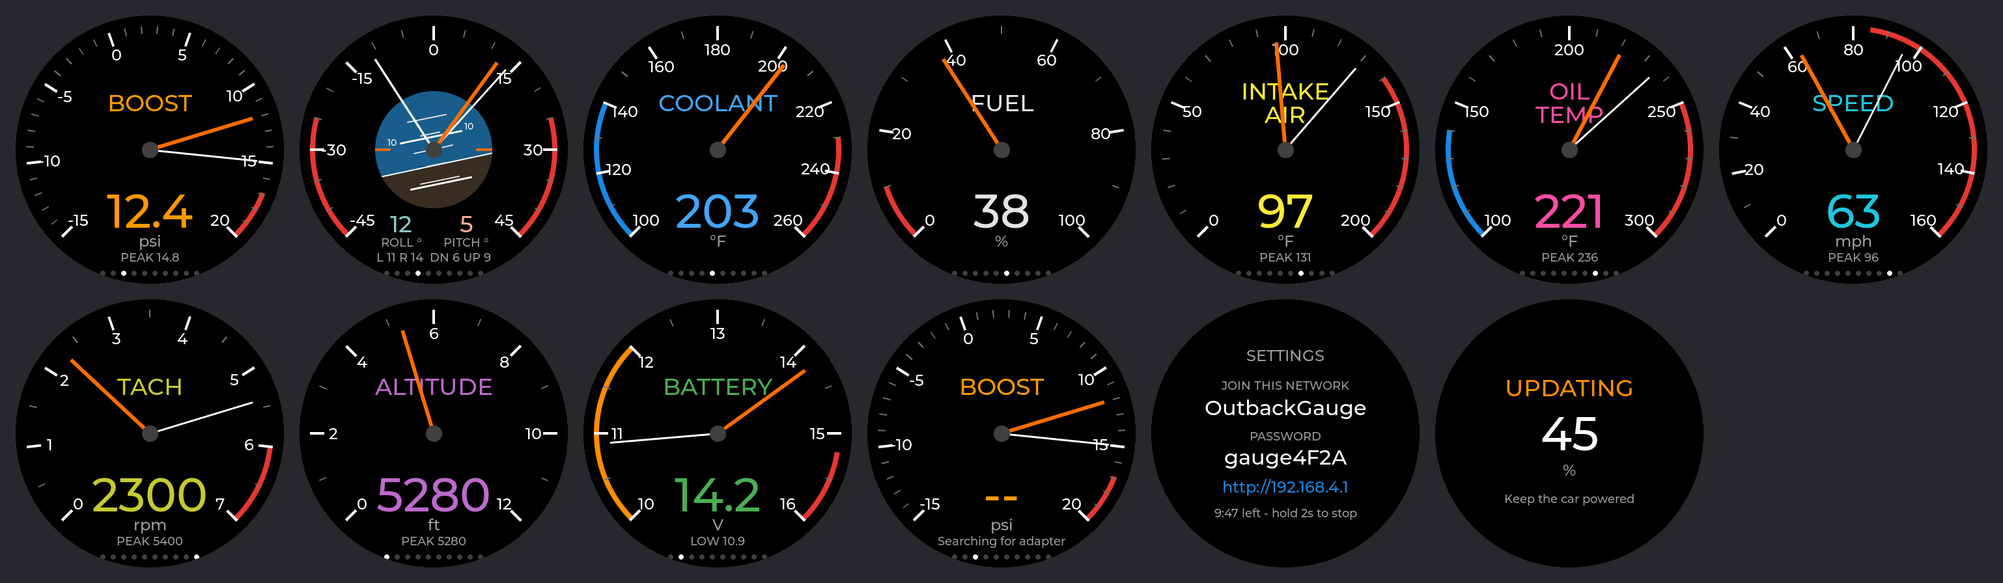
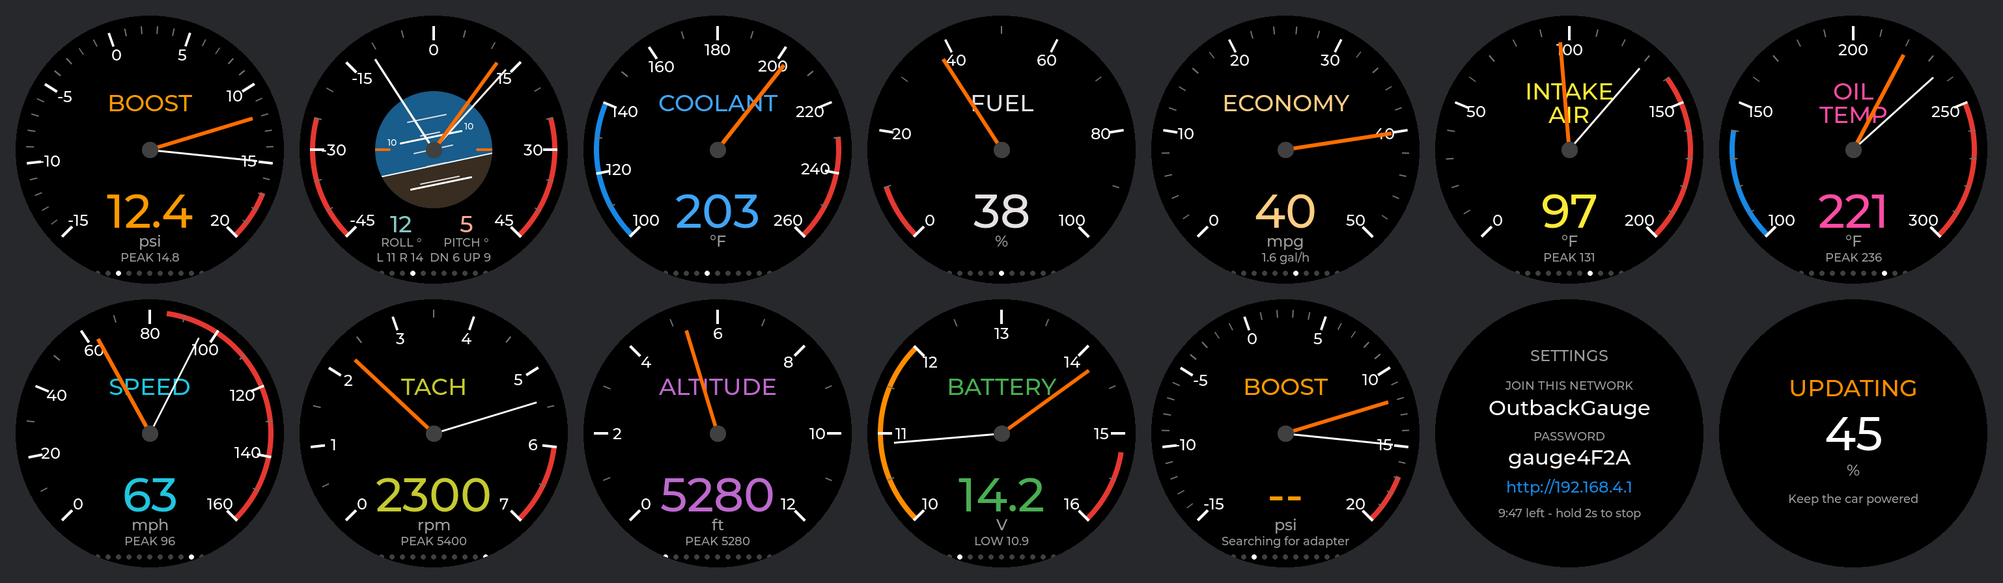
Add a fuel economy gauge (mpg from fuel rate or air flow, and speed)

diff --git a/docs/settings-page.html b/docs/settings-page.html
@@ -1,1 +1,1 @@
-<!doctype html><html><head><meta charset=utf-8><meta name=viewport content='width=device-width,initial-scale=1'><title>Outback Gauge</title><style>*{box-sizing:border-box}body{margin:0;padding:18px;background:#111;color:#eee;font:16px/1.4 -apple-system,system-ui,Roboto,sans-serif}main{max-width:30rem;margin:0 auto}h1{font-size:1.25rem;margin:0}p.sub{margin:.2rem 0 1.4rem;color:#888;font-size:.85rem}h2{font-size:.72rem;text-transform:uppercase;letter-spacing:.09em;color:#888;margin:1.6rem 0 .3rem;border-bottom:1px solid #2a2a2a;padding-bottom:.4rem}label{display:flex;align-items:center;gap:.75rem;padding:.5rem 0}label span{flex:1}label em{color:#777;font-style:normal;font-size:.8rem;min-width:2.4rem}input[type=number]{width:5.5rem;padding:.5rem;background:#1c1c1c;border:1px solid #333;border-radius:6px;color:#fff;font-size:1rem;text-align:right}select{padding:.5rem;background:#1c1c1c;border:1px solid #333;border-radius:6px;color:#fff;font-size:1rem}input[type=file]{width:100%;margin-top:.8rem;color:#ccc}input[type=range]{flex:1;accent-color:#FF6D00}table{width:100%;border-collapse:collapse;margin-top:.3rem}th{font-size:.7rem;font-weight:400;text-transform:uppercase;letter-spacing:.06em;color:#888;text-align:center;padding:.3rem .25rem}th:first-child,td:first-child{text-align:left}td{padding:.45rem .25rem;border-top:1px solid #222;text-align:center;vertical-align:middle}td input[type=number]{width:4.6rem;padding:.4rem}td input[type=radio]{width:1.35rem;height:1.35rem;accent-color:#FF6D00}.lim{display:flex;align-items:center;justify-content:center;gap:.3rem;margin:.15rem 0}.lim em{min-width:1.6rem;text-align:left;white-space:nowrap}td input[type=number]{width:4.2rem}.none{color:#555}td.mv{user-select:none;-webkit-user-select:none}.ar{color:#777;font-size:1.1rem;display:inline-block;padding:.7rem .5rem .7rem .3rem;margin:-.7rem .1rem -.7rem -.3rem;touch-action:none;cursor:grab;vertical-align:middle}tr.drag td{background:#2a2a2a}body{padding:12px 28px 12px 12px}th,td{padding-left:.12rem;padding-right:.12rem}th{font-size:.62rem;letter-spacing:.03em}td input[type=number]{width:4rem;padding:.35rem .3rem;-moz-appearance:textfield;appearance:textfield}td input[type=number]::-webkit-inner-spin-button,td input[type=number]::-webkit-outer-spin-button{-webkit-appearance:none;margin:0}td input[type=radio],td input[type=checkbox]{width:1.2rem;height:1.2rem}.nm{display:inline-block;vertical-align:middle;max-width:calc(100% - 1.7rem);font-size:.9rem}.lim{gap:.2rem}.lim em{min-width:1.6rem;font-size:.78rem}td input:disabled{opacity:.25}button.ghost.arm{background:#7a2c2c;color:#fff;border-color:#a33}#toast{position:fixed;left:50%;bottom:1.2rem;transform:translateX(-50%);padding:.7rem 1.3rem;border-radius:8px;background:#14301b;border:1px solid #2c5c38;color:#a9e0bb;display:none;z-index:9;box-shadow:0 4px 18px #000a}#toast.bad{background:#3a1616;border-color:#7a2c2c;color:#f2b2b2}input[type=checkbox]{width:1.35rem;height:1.35rem;accent-color:#FF6D00}button{width:100%;padding:.85rem;margin-top:1.2rem;border:0;border-radius:8px;background:#FF6D00;color:#111;font-size:1rem;font-weight:600}button.ghost{background:#1c1c1c;color:#ccc;border:1px solid #333;font-weight:400;margin-top:.5rem}.note{background:#14301b;border:1px solid #2c5c38;color:#a9e0bb;padding:.6rem .8rem;border-radius:6px;margin-bottom:1.2rem;font-size:.9rem}.warn{color:#FB8C00;font-size:.78rem;margin:.5rem 0 0}</style></head><body><main><h1>Outback Gauge</h1><p class=sub>Settings are saved on the gauge and survive a reboot.</p><div class=note>Saved.</div><form method=POST action=/save data-toast="Saved"><h2>Gauges</h2><table><tr><th>Gauge (drag the grip to reorder)<th>Warns at<th>Alert<th>Show<th>Start on</tr><tr><td colspan=4>The last one I tapped to<td><input type=radio name=start value=255 checked></tr><tr data-g><td class=mv><input type=hidden name=o value=9><span class=ar>&#10303;</span><span class=nm>Altitude</span><td><span class=none>none</span><td><td><input type=checkbox name=pg9 checked><td><input type=radio name=start value=9></tr><tr data-g><td class=mv><input type=hidden name=o value=4><span class=ar>&#10303;</span><span class=nm>Battery</span><td><span class=lim><input type=number name=vlo min=10 max=14 step=0.1 value=12.0><em>V lo</em></span><span class=lim><input type=number name=vhi min=13 max=16 step=0.1 value=15.2><em>V hi</em></span><td><input type=checkbox name=al4 checked><td><input type=checkbox name=pg4 checked><td><input type=radio name=start value=4></tr><tr data-g><td class=mv><input type=hidden name=o value=0><span class=ar>&#10303;</span><span class=nm>Boost</span><td><span class=lim><input type=number name=boost min=0 max=20 step=0.5 value=17.0><em>psi</em></span><td><input type=checkbox name=al0 checked><td><input type=checkbox name=pg0 checked><td><input type=radio name=start value=0></tr><tr data-g><td class=mv><input type=hidden name=o value=8><span class=ar>&#10303;</span><span class=nm>Clinometer</span><td><span class=lim><input type=number name=roll min=5 max=45 step=1 value=25><em>&deg; roll</em></span><span class=lim><input type=number name=pitch min=5 max=45 step=1 value=25><em>&deg; pitch</em></span><td><input type=checkbox name=al8 checked><td><input type=checkbox name=pg8 checked><td><input type=radio name=start value=8></tr><tr data-g><td class=mv><input type=hidden name=o value=1><span class=ar>&#10303;</span><span class=nm>Coolant</span><td><span class=lim><input type=number name=cool min=150 max=260 step=1 value=230><em>&deg;F</em></span><td><input type=checkbox name=al1 checked><td><input type=checkbox name=pg1 checked><td><input type=radio name=start value=1></tr><tr data-g><td class=mv><input type=hidden name=o value=7><span class=ar>&#10303;</span><span class=nm>Fuel</span><td><span class=lim><input type=number name=fuel min=5 max=50 step=1 value=10><em>% low</em></span><td><input type=checkbox name=al7 checked><td><input type=checkbox name=pg7 checked><td><input type=radio name=start value=7></tr><tr data-g><td class=mv><input type=hidden name=o value=3><span class=ar>&#10303;</span><span class=nm>Intake air</span><td><span class=lim><input type=number name=intake min=60 max=200 step=1 value=140><em>&deg;F</em></span><td><input type=checkbox name=al3 checked><td><input type=checkbox name=pg3 checked><td><input type=radio name=start value=3></tr><tr data-g><td class=mv><input type=hidden name=o value=2><span class=ar>&#10303;</span><span class=nm>Oil temperature</span><td><span class=lim><input type=number name=oil min=180 max=300 step=1 value=250><em>&deg;F</em></span><td><input type=checkbox name=al2 checked><td><input type=checkbox name=pg2 checked><td><input type=radio name=start value=2></tr><tr data-g><td class=mv><input type=hidden name=o value=5><span class=ar>&#10303;</span><span class=nm>Speed</span><td><span class=lim><input type=number name=speed min=20 max=160 step=1 value=85><em>mph</em></span><td><input type=checkbox name=al5 checked><td><input type=checkbox name=pg5 checked><td><input type=radio name=start value=5></tr><tr data-g><td class=mv><input type=hidden name=o value=6><span class=ar>&#10303;</span><span class=nm>Tachometer</span><td><span class=lim><input type=number name=rpm min=3000 max=7000 step=100 value=6000><em>rpm</em></span><td><input type=checkbox name=al6 checked><td><input type=checkbox name=pg6 checked><td><input type=radio name=start value=6></tr></table><p class=warn>The start gauge falls back to the first one shown if you hide it. With Alert off a gauge still turns red, but never pulls the screen over.</p><label class=chk><input type=checkbox name=warnhidden><span>Show a hidden gauge when it warns</span></label><label class=chk><input type=checkbox name=stay checked><span>Stay on a gauge that has warned for 10 seconds (otherwise keep rotating)</span></label><h2>Rotation</h2><label class=chk><input type=checkbox name=auto checked><span>Cycle through the gauges</span></label><label><span>Seconds per gauge</span><input type=number name=secs min=1 max=60 step=0.5 value=3.0><em>s</em></label><p class=warn>Tap the screen to move on early. Hold for 2 seconds to open this page.</p><h2>Display</h2><label><span>Backlight</span><input type=range name=bl min=5 max=100 step=5 value=80 oninput="this.nextElementSibling.textContent=this.value+'%'"><em>80%</em></label><label class=chk><input type=checkbox name=light><span>White background, black numbers and needles (hold the screen to flip it)</span></label><button>Save</button></form><form method=POST action=/level data-toast="Level set" data-ask="Tap again to set level" data-confirm="Is the car parked on level ground? That becomes zero for the clinometer."><button class=ghost>Set clinometer level</button></form><form method=POST action=/defaults data-toast="Defaults restored" data-ask="Tap again to restore defaults" data-confirm="Put every setting back to its default?"><button class=ghost>Restore defaults</button></form><form method=POST action=/reboot data-ask="Tap again to reboot" data-confirm="Reboot the gauge? The Wi-Fi drops, so hold the screen for 2 seconds to bring it back."><button class=ghost>Reboot the gauge</button></form><form method=POST action=/stop data-ask="Tap again to turn Wi-Fi off" data-confirm="Turn Wi-Fi off? Hold the screen to bring it back."><button class=ghost>Turn Wi-Fi off</button></form><h2>Firmware</h2><form method=POST action=/update enctype=multipart/form-data data-upload=1 data-ask="Tap again to install" data-confirm="Install this firmware? The gauge restarts when it finishes, which takes about a minute. Keep the car powered."><input type=file name=fw accept=".bin" required><button class=ghost>Update firmware</button></form><progress id=upbar max=100 value=0 style='display:none;width:100%;margin-top:.6rem'></progress><p class=warn id=upmsg></p><p class=warn>Build: preview. Last start: power on, 7 min ago.</p></main><div id=toast></div><script>function sync(){var rows=document.querySelectorAll('tr[data-g]'),on=0,pick=null;rows.forEach(function(r){var c=r.querySelector('input[name^=pg]'),d=r.querySelector('input[type=radio]');d.disabled=!c.checked;if(c.checked){on++;if(!pick)pick=d}if(d.disabled&&d.checked){d.checked=false;if(pick)pick.checked=true}});var sel=document.querySelector('input[name=start]:checked');if(!sel){(pick||document.querySelector('input[name=start]:not(:disabled)')).checked=true}}function toast(t,bad){var e=document.getElementById('toast');e.textContent=t;e.className=bad?'bad':'';e.style.display='block';clearTimeout(toast.t);toast.t=setTimeout(function(){e.style.display='none'},3000)}document.addEventListener('change',function(e){if(e.target.type=='checkbox'&&e.target.name&&e.target.name.indexOf('pg')==0){if(!document.querySelector('input[name^=pg]:checked'))e.target.checked=true;sync()}});function disarm(f){var b=f.querySelector('button');if(f.armed){f.armed=0;b.textContent=b.getAttribute('data-t');b.className='ghost';if(f.m)f.m.remove()}}document.addEventListener('submit',function(e){var f=e.target,c=f.getAttribute('data-confirm');if(c){var b=f.querySelector('button');if(!f.armed){e.preventDefault();f.armed=1;b.setAttribute('data-t',b.textContent);b.textContent=f.getAttribute('data-ask');b.className='ghost arm';var m=document.createElement('p');m.className='warn';m.textContent=c;f.appendChild(m);f.m=m;clearTimeout(f.t);f.t=setTimeout(function(){disarm(f)},5000);return}clearTimeout(f.t);if(f.m)f.m.remove()}if(f.hasAttribute('data-upload')){e.preventDefault();upload(f);return}var t=f.getAttribute('data-toast');if(!t)return;e.preventDefault();fetch(f.action,{method:'POST',body:new URLSearchParams(new FormData(f))}).then(function(r){return r.text()}).then(function(h){var y=scrollY;document.body.innerHTML=new DOMParser().parseFromString(h,'text/html').body.innerHTML;var n=document.querySelector('.note');if(n)n.remove();sync();scrollTo(0,y);toast(t)}).catch(function(){toast('Could not reach the gauge',1)})});function upload(f){var b=f.querySelector('button'),bar=document.getElementById('upbar'),msg=document.getElementById('upmsg');b.disabled=true;bar.style.display='block';bar.value=0;msg.textContent='Uploading 0%';var x=new XMLHttpRequest();x.open('POST',f.action);x.upload.onprogress=function(ev){if(ev.lengthComputable){var p=Math.round(100*ev.loaded/ev.total);bar.value=p;msg.textContent=p<100?'Uploading '+p+'%':'Installing. The gauge restarts when it finishes.'}};x.onload=function(){document.body.innerHTML=new DOMParser().parseFromString(x.responseText,'text/html').body.innerHTML};x.onerror=function(){msg.textContent='Connection lost. If the gauge screen says it is installing or restarting, the update is fine.';b.disabled=false};x.send(new FormData(f))}function rows(){return Array.prototype.slice.call(document.querySelectorAll('tr[data-g]'))}var dragRow=null;document.addEventListener('pointerdown',function(e){var h=e.target.closest('.ar');if(!h)return;dragRow=h.closest('tr');dragRow.className='drag';h.setPointerCapture(e.pointerId)});document.addEventListener('pointermove',function(e){if(!dragRow)return;var all=rows(),i=all.indexOf(dragRow),p=all[i-1],n=all[i+1];if(p){var a=p.getBoundingClientRect();if(e.clientY<a.top+a.height/2)p.parentNode.insertBefore(dragRow,p)}if(n){var c=n.getBoundingClientRect();if(e.clientY>c.top+c.height/2)n.parentNode.insertBefore(n,dragRow)}});function drop(){if(dragRow){dragRow.className='';dragRow=null}}document.addEventListener('pointerup',drop);document.addEventListener('pointercancel',drop);sync();</script></body></html>
+<!doctype html><html><head><meta charset=utf-8><meta name=viewport content='width=device-width,initial-scale=1'><title>Outback Gauge</title><style>*{box-sizing:border-box}body{margin:0;padding:18px;background:#111;color:#eee;font:16px/1.4 -apple-system,system-ui,Roboto,sans-serif}main{max-width:30rem;margin:0 auto}h1{font-size:1.25rem;margin:0}p.sub{margin:.2rem 0 1.4rem;color:#888;font-size:.85rem}h2{font-size:.72rem;text-transform:uppercase;letter-spacing:.09em;color:#888;margin:1.6rem 0 .3rem;border-bottom:1px solid #2a2a2a;padding-bottom:.4rem}label{display:flex;align-items:center;gap:.75rem;padding:.5rem 0}label span{flex:1}label em{color:#777;font-style:normal;font-size:.8rem;min-width:2.4rem}input[type=number]{width:5.5rem;padding:.5rem;background:#1c1c1c;border:1px solid #333;border-radius:6px;color:#fff;font-size:1rem;text-align:right}select{padding:.5rem;background:#1c1c1c;border:1px solid #333;border-radius:6px;color:#fff;font-size:1rem}input[type=file]{width:100%;margin-top:.8rem;color:#ccc}input[type=range]{flex:1;accent-color:#FF6D00}table{width:100%;border-collapse:collapse;margin-top:.3rem}th{font-size:.7rem;font-weight:400;text-transform:uppercase;letter-spacing:.06em;color:#888;text-align:center;padding:.3rem .25rem}th:first-child,td:first-child{text-align:left}td{padding:.45rem .25rem;border-top:1px solid #222;text-align:center;vertical-align:middle}td input[type=number]{width:4.6rem;padding:.4rem}td input[type=radio]{width:1.35rem;height:1.35rem;accent-color:#FF6D00}.lim{display:flex;align-items:center;justify-content:center;gap:.3rem;margin:.15rem 0}.lim em{min-width:1.6rem;text-align:left;white-space:nowrap}td input[type=number]{width:4.2rem}.none{color:#555}td.mv{user-select:none;-webkit-user-select:none}.ar{color:#777;font-size:1.1rem;display:inline-block;padding:.7rem .5rem .7rem .3rem;margin:-.7rem .1rem -.7rem -.3rem;touch-action:none;cursor:grab;vertical-align:middle}tr.drag td{background:#2a2a2a}body{padding:12px 28px 12px 12px}th,td{padding-left:.12rem;padding-right:.12rem}th{font-size:.62rem;letter-spacing:.03em}td input[type=number]{width:4rem;padding:.35rem .3rem;-moz-appearance:textfield;appearance:textfield}td input[type=number]::-webkit-inner-spin-button,td input[type=number]::-webkit-outer-spin-button{-webkit-appearance:none;margin:0}td input[type=radio],td input[type=checkbox]{width:1.2rem;height:1.2rem}.nm{display:inline-block;vertical-align:middle;max-width:calc(100% - 1.7rem);font-size:.9rem}.lim{gap:.2rem}.lim em{min-width:1.6rem;font-size:.78rem}td input:disabled{opacity:.25}button.ghost.arm{background:#7a2c2c;color:#fff;border-color:#a33}#toast{position:fixed;left:50%;bottom:1.2rem;transform:translateX(-50%);padding:.7rem 1.3rem;border-radius:8px;background:#14301b;border:1px solid #2c5c38;color:#a9e0bb;display:none;z-index:9;box-shadow:0 4px 18px #000a}#toast.bad{background:#3a1616;border-color:#7a2c2c;color:#f2b2b2}input[type=checkbox]{width:1.35rem;height:1.35rem;accent-color:#FF6D00}button{width:100%;padding:.85rem;margin-top:1.2rem;border:0;border-radius:8px;background:#FF6D00;color:#111;font-size:1rem;font-weight:600}button.ghost{background:#1c1c1c;color:#ccc;border:1px solid #333;font-weight:400;margin-top:.5rem}.note{background:#14301b;border:1px solid #2c5c38;color:#a9e0bb;padding:.6rem .8rem;border-radius:6px;margin-bottom:1.2rem;font-size:.9rem}.warn{color:#FB8C00;font-size:.78rem;margin:.5rem 0 0}</style></head><body><main><h1>Outback Gauge</h1><p class=sub>Settings are saved on the gauge and survive a reboot.</p><div class=note>Saved.</div><form method=POST action=/save data-toast="Saved"><h2>Gauges</h2><table><tr><th>Gauge (drag the grip to reorder)<th>Warns at<th>Alert<th>Show<th>Start on</tr><tr><td colspan=4>The last one I tapped to<td><input type=radio name=start value=255 checked></tr><tr data-g><td class=mv><input type=hidden name=o value=9><span class=ar>&#10303;</span><span class=nm>Altitude</span><td><span class=none>none</span><td><td><input type=checkbox name=pg9 checked><td><input type=radio name=start value=9></tr><tr data-g><td class=mv><input type=hidden name=o value=4><span class=ar>&#10303;</span><span class=nm>Battery</span><td><span class=lim><input type=number name=vlo min=10 max=14 step=0.1 value=12.0><em>V lo</em></span><span class=lim><input type=number name=vhi min=13 max=16 step=0.1 value=15.2><em>V hi</em></span><td><input type=checkbox name=al4 checked><td><input type=checkbox name=pg4 checked><td><input type=radio name=start value=4></tr><tr data-g><td class=mv><input type=hidden name=o value=0><span class=ar>&#10303;</span><span class=nm>Boost</span><td><span class=lim><input type=number name=boost min=0 max=20 step=0.5 value=17.0><em>psi</em></span><td><input type=checkbox name=al0 checked><td><input type=checkbox name=pg0 checked><td><input type=radio name=start value=0></tr><tr data-g><td class=mv><input type=hidden name=o value=8><span class=ar>&#10303;</span><span class=nm>Clinometer</span><td><span class=lim><input type=number name=roll min=5 max=45 step=1 value=25><em>&deg; roll</em></span><span class=lim><input type=number name=pitch min=5 max=45 step=1 value=25><em>&deg; pitch</em></span><td><input type=checkbox name=al8 checked><td><input type=checkbox name=pg8 checked><td><input type=radio name=start value=8></tr><tr data-g><td class=mv><input type=hidden name=o value=1><span class=ar>&#10303;</span><span class=nm>Coolant</span><td><span class=lim><input type=number name=cool min=150 max=260 step=1 value=230><em>&deg;F</em></span><td><input type=checkbox name=al1 checked><td><input type=checkbox name=pg1 checked><td><input type=radio name=start value=1></tr><tr data-g><td class=mv><input type=hidden name=o value=7><span class=ar>&#10303;</span><span class=nm>Fuel</span><td><span class=lim><input type=number name=fuel min=5 max=50 step=1 value=10><em>% low</em></span><td><input type=checkbox name=al7 checked><td><input type=checkbox name=pg7 checked><td><input type=radio name=start value=7></tr><tr data-g><td class=mv><input type=hidden name=o value=10><span class=ar>&#10303;</span><span class=nm>Fuel economy</span><td><span class=none>none</span><td><td><input type=checkbox name=pg10 checked><td><input type=radio name=start value=10></tr><tr data-g><td class=mv><input type=hidden name=o value=3><span class=ar>&#10303;</span><span class=nm>Intake air</span><td><span class=lim><input type=number name=intake min=60 max=200 step=1 value=140><em>&deg;F</em></span><td><input type=checkbox name=al3 checked><td><input type=checkbox name=pg3 checked><td><input type=radio name=start value=3></tr><tr data-g><td class=mv><input type=hidden name=o value=2><span class=ar>&#10303;</span><span class=nm>Oil temperature</span><td><span class=lim><input type=number name=oil min=180 max=300 step=1 value=250><em>&deg;F</em></span><td><input type=checkbox name=al2 checked><td><input type=checkbox name=pg2 checked><td><input type=radio name=start value=2></tr><tr data-g><td class=mv><input type=hidden name=o value=5><span class=ar>&#10303;</span><span class=nm>Speed</span><td><span class=lim><input type=number name=speed min=20 max=160 step=1 value=85><em>mph</em></span><td><input type=checkbox name=al5 checked><td><input type=checkbox name=pg5 checked><td><input type=radio name=start value=5></tr><tr data-g><td class=mv><input type=hidden name=o value=6><span class=ar>&#10303;</span><span class=nm>Tachometer</span><td><span class=lim><input type=number name=rpm min=3000 max=7000 step=100 value=6000><em>rpm</em></span><td><input type=checkbox name=al6 checked><td><input type=checkbox name=pg6 checked><td><input type=radio name=start value=6></tr></table><p class=warn>The start gauge falls back to the first one shown if you hide it. With Alert off a gauge still turns red, but never pulls the screen over.</p><label class=chk><input type=checkbox name=warnhidden><span>Show a hidden gauge when it warns</span></label><label class=chk><input type=checkbox name=stay checked><span>Stay on a gauge that has warned for 10 seconds (otherwise keep rotating)</span></label><h2>Rotation</h2><label class=chk><input type=checkbox name=auto checked><span>Cycle through the gauges</span></label><label><span>Seconds per gauge</span><input type=number name=secs min=1 max=60 step=0.5 value=3.0><em>s</em></label><p class=warn>Tap the screen to move on early. Hold for 2 seconds to open this page.</p><h2>Display</h2><label><span>Backlight</span><input type=range name=bl min=5 max=100 step=5 value=80 oninput="this.nextElementSibling.textContent=this.value+'%'"><em>80%</em></label><label class=chk><input type=checkbox name=light><span>White background, black numbers and needles (hold the screen to flip it)</span></label><button>Save</button></form><form method=POST action=/level data-toast="Level set" data-ask="Tap again to set level" data-confirm="Is the car parked on level ground? That becomes zero for the clinometer."><button class=ghost>Set clinometer level</button></form><form method=POST action=/defaults data-toast="Defaults restored" data-ask="Tap again to restore defaults" data-confirm="Put every setting back to its default?"><button class=ghost>Restore defaults</button></form><form method=POST action=/reboot data-ask="Tap again to reboot" data-confirm="Reboot the gauge? The Wi-Fi drops, so hold the screen for 2 seconds to bring it back."><button class=ghost>Reboot the gauge</button></form><form method=POST action=/stop data-ask="Tap again to turn Wi-Fi off" data-confirm="Turn Wi-Fi off? Hold the screen to bring it back."><button class=ghost>Turn Wi-Fi off</button></form><h2>Firmware</h2><form method=POST action=/update enctype=multipart/form-data data-upload=1 data-ask="Tap again to install" data-confirm="Install this firmware? The gauge restarts when it finishes, which takes about a minute. Keep the car powered."><input type=file name=fw accept=".bin" required><button class=ghost>Update firmware</button></form><progress id=upbar max=100 value=0 style='display:none;width:100%;margin-top:.6rem'></progress><p class=warn id=upmsg></p><p class=warn>Build: preview. Last start: power on, 7 min ago.</p></main><div id=toast></div><script>function sync(){var rows=document.querySelectorAll('tr[data-g]'),on=0,pick=null;rows.forEach(function(r){var c=r.querySelector('input[name^=pg]'),d=r.querySelector('input[type=radio]');d.disabled=!c.checked;if(c.checked){on++;if(!pick)pick=d}if(d.disabled&&d.checked){d.checked=false;if(pick)pick.checked=true}});var sel=document.querySelector('input[name=start]:checked');if(!sel){(pick||document.querySelector('input[name=start]:not(:disabled)')).checked=true}}function toast(t,bad){var e=document.getElementById('toast');e.textContent=t;e.className=bad?'bad':'';e.style.display='block';clearTimeout(toast.t);toast.t=setTimeout(function(){e.style.display='none'},3000)}document.addEventListener('change',function(e){if(e.target.type=='checkbox'&&e.target.name&&e.target.name.indexOf('pg')==0){if(!document.querySelector('input[name^=pg]:checked'))e.target.checked=true;sync()}});function disarm(f){var b=f.querySelector('button');if(f.armed){f.armed=0;b.textContent=b.getAttribute('data-t');b.className='ghost';if(f.m)f.m.remove()}}document.addEventListener('submit',function(e){var f=e.target,c=f.getAttribute('data-confirm');if(c){var b=f.querySelector('button');if(!f.armed){e.preventDefault();f.armed=1;b.setAttribute('data-t',b.textContent);b.textContent=f.getAttribute('data-ask');b.className='ghost arm';var m=document.createElement('p');m.className='warn';m.textContent=c;f.appendChild(m);f.m=m;clearTimeout(f.t);f.t=setTimeout(function(){disarm(f)},5000);return}clearTimeout(f.t);if(f.m)f.m.remove()}if(f.hasAttribute('data-upload')){e.preventDefault();upload(f);return}var t=f.getAttribute('data-toast');if(!t)return;e.preventDefault();fetch(f.action,{method:'POST',body:new URLSearchParams(new FormData(f))}).then(function(r){return r.text()}).then(function(h){var y=scrollY;document.body.innerHTML=new DOMParser().parseFromString(h,'text/html').body.innerHTML;var n=document.querySelector('.note');if(n)n.remove();sync();scrollTo(0,y);toast(t)}).catch(function(){toast('Could not reach the gauge',1)})});function upload(f){var b=f.querySelector('button'),bar=document.getElementById('upbar'),msg=document.getElementById('upmsg');b.disabled=true;bar.style.display='block';bar.value=0;msg.textContent='Uploading 0%';var x=new XMLHttpRequest();x.open('POST',f.action);x.upload.onprogress=function(ev){if(ev.lengthComputable){var p=Math.round(100*ev.loaded/ev.total);bar.value=p;msg.textContent=p<100?'Uploading '+p+'%':'Installing. The gauge restarts when it finishes.'}};x.onload=function(){document.body.innerHTML=new DOMParser().parseFromString(x.responseText,'text/html').body.innerHTML};x.onerror=function(){msg.textContent='Connection lost. If the gauge screen says it is installing or restarting, the update is fine.';b.disabled=false};x.send(new FormData(f))}function rows(){return Array.prototype.slice.call(document.querySelectorAll('tr[data-g]'))}var dragRow=null;document.addEventListener('pointerdown',function(e){var h=e.target.closest('.ar');if(!h)return;dragRow=h.closest('tr');dragRow.className='drag';h.setPointerCapture(e.pointerId)});document.addEventListener('pointermove',function(e){if(!dragRow)return;var all=rows(),i=all.indexOf(dragRow),p=all[i-1],n=all[i+1];if(p){var a=p.getBoundingClientRect();if(e.clientY<a.top+a.height/2)p.parentNode.insertBefore(dragRow,p)}if(n){var c=n.getBoundingClientRect();if(e.clientY>c.top+c.height/2)n.parentNode.insertBefore(n,dragRow)}});function drop(){if(dragRow){dragRow.className='';dragRow=null}}document.addEventListener('pointerup',drop);document.addEventListener('pointercancel',drop);sync();</script></body></html>

diff --git a/src/ui.cpp b/src/ui.cpp
@@ -19,7 +19,7 @@ namespace {
 constexpr lv_coord_t C = LCD_SIZE / 2;  // screen center
 constexpr uint32_t WHITE = 0xFFFFFF, GREY = 0x9E9E9E, RED = 0xE53935, AMBER = 0xFB8C00, BLUE = 0x1E88E5;
 constexpr uint32_t TEXT_GREEN = 0x4CAF50, TEXT_ORANGE = 0xFF9800, TEXT_BLUE = 0x42A5F5, TEXT_PINK = 0xFF4FA3,
-                   TEXT_YELLOW = 0xFFEB3B, TEXT_PURPLE = 0xBA68C8, TEXT_TEAL = 0x26C6DA, TEXT_LIME = 0xC0CA33, TEXT_SILVER = 0xE0E0E0, TEXT_MINT = 0x80CBC4, TEXT_PEACH = 0xFFAB91;
+                   TEXT_YELLOW = 0xFFEB3B, TEXT_PURPLE = 0xBA68C8, TEXT_TEAL = 0x26C6DA, TEXT_LIME = 0xC0CA33, TEXT_SILVER = 0xE0E0E0, TEXT_MINT = 0x80CBC4, TEXT_PEACH = 0xFFAB91, TEXT_SAND = 0xFFCC80;
 #define DEG "\xC2\xB0"
 
 // Dark: black screen, coloured readouts, white ticks, orange needle. Light: white
@@ -67,6 +67,7 @@ const GaugeCfg FUEL = {"FUEL", "%", "%.0f", 0, 100, 1, 11, 2, {{0, 0, RED, &Sett
 // each warning limit) with the artificial horizon for pitch in a window in the middle (see makeTilt).
 const GaugeCfg TILT = {"", "", "%.0f", -45, 45, 1, 19, 3, {{-45, 0, RED, &Settings::rollWarnDeg, false, -1}, {0, 45, RED, &Settings::rollWarnDeg}}, Focus::None, TEXT_MINT, 2};
 const GaugeCfg ALTITUDE = {"ALTITUDE", "ft", "%.0f", 0, 12000, 1, 13, 2, {{}, {}}, Focus::None, TEXT_PURPLE, 1};
+const GaugeCfg ECONOMY = {"ECONOMY", "mpg", "%.0f", 0, 50, 1, 26, 5, {{}, {}}, Focus::Economy, TEXT_SAND, 0};
 const GaugeCfg VOLTS = {"BATTERY", "V", "%.1f", 10, 16, 10, 13, 2, {{10, 0, AMBER, &Settings::voltsLowWarn, false}, {0, 16, RED, &Settings::voltsHighWarn}}, Focus::Volts, TEXT_GREEN, -1};
 
 struct Gauge {
@@ -94,7 +95,7 @@ struct SettingsPage {
   lv_obj_t *screen, *caption, *headline, *caption2, *detail, *url, *foot;
 };
 
-enum : uint8_t { PAGE_BOOST, PAGE_COOLANT, PAGE_OIL, PAGE_INTAKE, PAGE_VOLTS, PAGE_SPEED, PAGE_TACH, PAGE_FUEL, PAGE_TILT, PAGE_ALTITUDE, PAGE_COUNT, PAGE_SETTINGS = PAGE_COUNT };
+enum : uint8_t { PAGE_BOOST, PAGE_COOLANT, PAGE_OIL, PAGE_INTAKE, PAGE_VOLTS, PAGE_SPEED, PAGE_TACH, PAGE_FUEL, PAGE_TILT, PAGE_ALTITUDE, PAGE_ECONOMY, PAGE_COUNT, PAGE_SETTINGS = PAGE_COUNT };
 
 Gauge gauges[PAGE_COUNT];
 Face face;
@@ -532,6 +533,7 @@ static void buildScreens() {
   gauges[PAGE_FUEL] = makeGauge(FUEL);
   gauges[PAGE_TILT] = makeTilt(TILT);
   gauges[PAGE_ALTITUDE] = makeGauge(ALTITUDE);
+  gauges[PAGE_ECONOMY] = makeGauge(ECONOMY);
   makeSettings();
   makeUpdateOverlay();
   for (uint8_t i = 0; i < PAGE_COUNT; i++) addPageDots(gauges[i].screen, gauges[i].dots, PAGE_COUNT);
@@ -693,6 +695,19 @@ static bool reading(uint8_t p, const Telemetry &t, float &v) {
     case PAGE_SPEED: v = t.speedMph, at = t.speedAt; break;
     case PAGE_TACH: v = t.rpm, at = t.rpmAt; break;
     case PAGE_FUEL: v = t.fuelPct, at = t.fuelAt; break;
+    case PAGE_ECONOMY: {   // miles per gallon, eased so it doesn't leap about; blank when stopped or no fuel reading
+      static float eased = NAN;
+      const uint32_t stamp = t.fuelRateAt && t.speedAt ? (t.fuelRateAt < t.speedAt ? t.fuelRateAt : t.speedAt) : 0;
+      if (!fresh(stamp) || t.speedMph < 2.0f) {
+        eased = NAN;
+        return false;
+      }
+      const float gph = t.fuelLph / 3.785f;
+      const float raw = gph > 0.05f ? fminf(50.0f, t.speedMph / gph) : 50.0f;   // coasting on a closed throttle burns nothing
+      eased = isnan(eased) ? raw : eased + (raw - eased) * 0.06f;
+      v = eased;
+      return true;
+    }
     case PAGE_ALTITUDE:   // the car updates its barometer slowly, so a reading is held rather than going stale
       v = t.altitudeFt;
       at = t.altitudeAt && (t.state == ObdState::Live || t.state == ObdState::Simulated) ? millis() : 0;
@@ -755,6 +770,12 @@ void ui_update(const Telemetry &t) {
     else {
       if (!isnan(extreme[page]))
         snprintf(held, sizeof held, "L %d R %d  DN %d UP %d", (int)lroundf(-extremeLow[page]), (int)lroundf(extreme[page]), (int)lroundf(-face.pitchLow), (int)lroundf(face.pitchHigh));
+      status = held;
+    }
+  } else if (page == PAGE_ECONOMY && live) {
+    if (!t.economyOk) status = "Car doesn't report fuel use";
+    else if (fresh(t.fuelRateAt)) {
+      snprintf(held, sizeof held, "%.1f gal/h", t.fuelLph / 3.785f);
       status = held;
     }
   } else if (g.cfg->track && !isnan(extreme[page]) && (live || page == PAGE_VOLTS)) {

diff --git a/src/settings.cpp b/src/settings.cpp
@@ -10,7 +10,7 @@ namespace {
 // Stored as one blob rather than a key per field: the whole struct round-trips
 // in two NVS calls, and a version mismatch after a firmware change falls back
 // to defaults instead of leaving half the fields stale. Bump on any layout change.
-constexpr uint16_t LAYOUT = 14;
+constexpr uint16_t LAYOUT = 15;
 
 struct Stored {
   uint16_t layout;
@@ -305,9 +305,9 @@ Settings settings_defaults() {
   s.stayOnWarning = STAY_ON_WARNING;
   s.lightTheme = LIGHT_THEME;
   // Alphabetical by the gauge's name: altitude, battery, boost, clinometer, coolant,
-  // fuel, intake air, oil temperature, speed, tach (the numbers are the
+  // fuel, fuel economy, intake air, oil temperature, speed, tach (the numbers are the
   // pages in ui.cpp).
-  static const uint8_t alphabetical[GAUGE_PAGES] = {9, 4, 0, 8, 1, 7, 3, 2, 5, 6};
+  static const uint8_t alphabetical[GAUGE_PAGES] = {9, 4, 0, 8, 1, 7, 10, 3, 2, 5, 6};
   memset(s.order, 0, sizeof s.order);
   memcpy(s.order, alphabetical, sizeof alphabetical);
   return s;
@@ -317,11 +317,17 @@ const Settings &settings() {
   return live;
 }
 
-// Layouts before 14 had no altitude page: it is shown, warns of nothing, and goes last.
-void addAltitude(Settings &s) {
-  s.order[9] = 9;
-  s.pageMask |= 1u << 9;
-  s.alertMask |= 1u << 9;
+// Pages added since: altitude (layout 14) and fuel economy (layout 15). Each is shown, warns of
+// nothing, and goes last.
+void addNewPages(Settings &s, uint16_t from) {
+  if (from < 14) {
+    s.order[9] = 9;
+    s.pageMask |= 1u << 9;
+    s.alertMask |= 1u << 9;
+  }
+  s.order[10] = 10;
+  s.pageMask |= 1u << 10;
+  s.alertMask |= 1u << 10;
 }
 
 void settings_load() {
@@ -343,11 +349,20 @@ void settings_load() {
     Serial.println("[CFG] loaded saved settings");
     return;
   }
+  if (n == sizeof(Stored) && layout == 14) {   // same fields as now, before the fuel economy page
+    Stored st;
+    memcpy(&st, raw, sizeof st);
+    live = st.s;
+    addNewPages(live, 14);
+    sanitize(live);
+    Serial.println("[CFG] carried over layout 14 settings");
+    return;
+  }
   if (n == sizeof(Stored) && layout == 13) {   // same fields as now, before the altitude page
     Stored st;
     memcpy(&st, raw, sizeof st);
     live = st.s;
-    addAltitude(live);
+    addNewPages(live, 13);
     sanitize(live);
     Serial.println("[CFG] carried over layout 13 settings");
     return;
@@ -356,7 +371,7 @@ void settings_load() {
     StoredV12 old;
     memcpy(&old, raw, sizeof old);
     live = fromV12(old.s);
-    addAltitude(live);
+    addNewPages(live, 12);
     sanitize(live);
     Serial.println("[CFG] carried over layout 12 settings");
     return;
@@ -365,7 +380,7 @@ void settings_load() {
     StoredV11 old;
     memcpy(&old, raw, sizeof old);
     live = fromV12(v12FromV11(old.s));
-    addAltitude(live);
+    addNewPages(live, 0);
     sanitize(live);
     Serial.println("[CFG] carried over layout 11 settings");
     return;
@@ -374,7 +389,7 @@ void settings_load() {
     StoredV10 old;
     memcpy(&old, raw, sizeof old);
     live = fromV12(v12FromV11(v11FromV10(old.s)));
-    addAltitude(live);
+    addNewPages(live, 0);
     sanitize(live);
     Serial.println("[CFG] carried over layout 10 settings");
     return;
@@ -383,7 +398,7 @@ void settings_load() {
     StoredV9 old;
     memcpy(&old, raw, sizeof old);
     live = fromV12(v12FromV11(v11FromV10(v10FromV9(old.s))));
-    addAltitude(live);
+    addNewPages(live, 0);
     sanitize(live);
     Serial.println("[CFG] carried over layout 9 settings");
     return;
@@ -392,7 +407,7 @@ void settings_load() {
     StoredV8 old;
     memcpy(&old, raw, sizeof old);
     live = fromV12(v12FromV11(v11FromV10(v10FromV9(v9FromV8(old.s)))));
-    addAltitude(live);
+    addNewPages(live, 0);
     sanitize(live);
     Serial.println("[CFG] carried over layout 8 settings");
     return;
@@ -405,7 +420,7 @@ void settings_load() {
       ((layout == 5 || layout == 4) && n == noLimitsBytes)) {
     memcpy(&old, raw, n);
     live = fromV12(v12FromV11(v11FromV10(v10FromV9(v9FromV8(v8FromV7(old.s, layout))))));
-    addAltitude(live);
+    addNewPages(live, 0);
     sanitize(live);
     Serial.printf("[CFG] carried over layout %u settings\n", layout);
   } else if (n) {

diff --git a/src/obd.cpp b/src/obd.cpp
@@ -56,8 +56,9 @@ void simulate() {
       s.rpm = 800.0f + throttle * 4500.0f;
       s.speedMph = throttle * 85.0f;
       s.fuelPct = max(8.0f, 62.0f - t * 0.05f);
+      s.fuelLph = 2.0f + throttle * 20.0f;
       s.altitudeFt = 5280.0f + 40.0f * sinf(t * 0.05f);
-      s.boostAt = s.coolantAt = s.oilAt = s.intakeAt = s.voltsAt = s.rpmAt = s.speedAt = s.fuelAt = s.altitudeAt = now;
+      s.boostAt = s.coolantAt = s.oilAt = s.intakeAt = s.voltsAt = s.rpmAt = s.speedAt = s.fuelAt = s.altitudeAt = s.fuelRateAt = now;
     });
     vTaskDelay(pdMS_TO_TICKS(50));
   }
@@ -295,7 +296,7 @@ bool ecuResponds(uint32_t timeoutMs) {
 
 // ---- polling ---------------------------------------------------------------
 
-enum class Item : uint8_t { Map, Coolant, Oil, Intake, Volts, Rpm, Speed, Fuel };
+enum class Item : uint8_t { Map, Coolant, Oil, Intake, Volts, Rpm, Speed, Fuel, FuelRate };
 
 float baroKpa = 101.3f;
 
@@ -315,6 +316,7 @@ bool itemSupported(Item item) {
     case Item::Rpm: return pidSupported(0x0C);
     case Item::Speed: return pidSupported(0x0D);
     case Item::Fuel: return pidSupported(0x2F);
+    case Item::FuelRate: return pidSupported(0x5E) || pidSupported(0x10);
     case Item::Volts: return true;  // the adapter measures this itself
   }
   return true;
@@ -413,6 +415,18 @@ bool poll(Item item) {
         t.fuelAt = now;
       });
       return true;
+    case Item::FuelRate: {
+      float lph;
+      if (pidSupported(0x5E)) {   // engine fuel rate, 0.05 L/h a step
+        if (!readPid(0x5E, b, 2)) return false;
+        lph = (b[0] * 256 + b[1]) / 20.0f;
+      } else {                    // air flow in 0.01 g/s; fuel is about 1 part in 14.7 of it, 745 g to the litre
+        if (!readPid(0x10, b, 2)) return false;
+        lph = (b[0] * 256 + b[1]) / 100.0f / 14.7f * 3600.0f / 745.0f;
+      }
+      edit([&](Telemetry &t) { t.fuelLph = lph, t.fuelRateAt = now; });
+      return true;
+    }
     case Item::Volts: {
       String r;
       if (!command("ATRV", r, 600)) return false;
@@ -449,6 +463,7 @@ bool focusItem(Focus f, Item &out) {
     case Focus::Speed: out = Item::Speed; return true;
     case Focus::Rpm: out = Item::Rpm; return true;
     case Focus::Fuel: out = Item::Fuel; return true;
+    case Focus::Economy: out = Item::FuelRate; return true;
     default: return false;
   }
 }
@@ -464,8 +479,9 @@ void runSession() {
     ecu = ecuResponds(10000);
   }
   if (ecu) discoverPids();
+  if (ecu && !itemSupported(Item::FuelRate)) edit([](Telemetry &t) { t.economyOk = false; });
 
-  static const Item slowItems[] = {Item::Coolant, Item::Oil, Item::Intake, Item::Volts, Item::Rpm, Item::Speed, Item::Fuel};
+  static const Item slowItems[] = {Item::Coolant, Item::Oil, Item::Intake, Item::Volts, Item::Rpm, Item::Speed, Item::Fuel, Item::FuelRate};
   size_t slowIdx = 0;
   uint32_t lastSlow = 0, lastBaro = 0;
   int failures = 0;
@@ -496,6 +512,7 @@ void runSession() {
     const bool haveFast = focusItem(focus, fast);
     bool ok = true, asked = false;
     if (haveFast && itemSupported(fast)) ok = poll(fast), asked = true;
+    if (focus == Focus::Economy && itemSupported(Item::Speed)) ok = poll(Item::Speed) && ok, asked = true;   // miles per gallon needs the speed too
 
     if (!haveFast || millis() - lastSlow >= 400) {
       lastSlow = millis();

diff --git a/src/config.h b/src/config.h
@@ -24,10 +24,10 @@ static const char *const OBD_NAME_HINTS[] = {"obdlink", "obd", "vlink", "vgate",
 #define DISPLAY_MOUNT_DEG 90
 
 // Which gauge the screen comes up on at power-up (0 boost, 1 coolant,
-// 2 oil temperature, 3 intake air, 4 battery, 5 speed, 6 rpm, 7 fuel, 8 clinometer, 9 altitude; 255 = the last one you tapped to),
-// and which gauges are shown at all (one bit each, in that order; 0x3FF is all ten).
+// 2 oil temperature, 3 intake air, 4 battery, 5 speed, 6 rpm, 7 fuel, 8 clinometer, 9 altitude, 10 fuel economy; 255 = the last one you tapped to),
+// and which gauges are shown at all (one bit each, in that order; 0x7FF is all eleven).
 #define START_PAGE 255
-#define PAGE_MASK 0x3FF
+#define PAGE_MASK 0x7FF
 
 // Clinometer. The pod is turned this many degrees toward the driver (left-hand
 // drive), and the chip's z axis points out of the screen (-1 if it points in).
@@ -57,7 +57,7 @@ static const char *const OBD_NAME_HINTS[] = {"obdlink", "obd", "vlink", "vgate",
 
 // Which gauges' warnings pull the screen over (one bit each, in the page order above),
 // and whether auto-rotate waits on a gauge that has warned or carries on.
-#define ALERT_MASK 0x3FF
+#define ALERT_MASK 0x7FF
 #define STAY_ON_WARNING 1
 
 // White background with black numbers and needles instead of black with colour.

diff --git a/tools/preview/harness.cpp b/tools/preview/harness.cpp
@@ -71,25 +71,25 @@ int main() {
   ui_update(t);
   t.speedMph = 63; t.rpm = 2300;
   t.boostPsi = 12.4f; t.coolantF = 203; t.oilF = 221; t.intakeF = 97; t.volts = 14.2f;
-  t.altitudeFt = 5280; t.altitudeAt = s;
+  t.altitudeFt = 5280; t.altitudeAt = s; t.fuelLph = 6.0f; t.fuelRateAt = s; t.speedMph = 63;
   t.coolantAt = t.oilAt = t.intakeAt = t.voltsAt = s;
 
   fakeTilt.ok = fakeTilt.calibrated = true;
   fakeTilt.roll = 14; fakeTilt.pitch = 9; ui_update(t);          // the maximums
   fakeTilt.roll = -11; fakeTilt.pitch = -6; ui_update(t);
   fakeTilt.roll = 12; fakeTilt.pitch = 5;
-  for (int page = 0; page < 10; page++) {
+  for (int page = 0; page < 11; page++) {
     ui_update(t); capture(page); ui_nextPage();
   }
   // Boost page again while still searching for the adapter.
   Telemetry idle; idle.state = ObdState::Scanning;
-  ui_update(idle); capture(10);
+  ui_update(idle); capture(11);
 
   // Settings page with the access point up, which is the crowded layout.
   ui_longPress();
-  ui_update(t); capture(11);
+  ui_update(t); capture(12);
 
-  fakeUpdate = 45; ui_update(t); capture(12);   // a firmware update arriving
+  fakeUpdate = 45; ui_update(t); capture(13);   // a firmware update arriving
   fakeUpdate = -1; ui_update(t);
 
   FILE *f = fopen("gauges.ppm", "wb");

diff --git a/src/obd.h b/src/obd.h
@@ -12,7 +12,7 @@ enum class ObdState : uint8_t {
 };
 
 // Which reading to poll as fast as possible; the rest are polled in rotation.
-enum class Focus : uint8_t { Boost, Coolant, Oil, Intake, Volts, Speed, Rpm, Fuel, None };
+enum class Focus : uint8_t { Boost, Coolant, Oil, Intake, Volts, Speed, Rpm, Fuel, Economy, None };
 
 // Timestamps are millis() of the last good reading, 0 if never read.
 struct Telemetry {
@@ -26,8 +26,10 @@ struct Telemetry {
   float rpm = 0;
   float speedMph = 0;
   float fuelPct = 0;   // tank level, smoothed
+  float fuelLph = 0;      // fuel burned, litres per hour (from the fuel rate, or worked out from air flow)
+  bool economyOk = true;  // false once the car turns out to report neither
   float altitudeFt = 0;   // worked out from the barometric pressure, which the car updates slowly
-  uint32_t boostAt = 0, coolantAt = 0, oilAt = 0, intakeAt = 0, voltsAt = 0, rpmAt = 0, speedAt = 0, fuelAt = 0, altitudeAt = 0;
+  uint32_t boostAt = 0, coolantAt = 0, oilAt = 0, intakeAt = 0, voltsAt = 0, rpmAt = 0, speedAt = 0, fuelAt = 0, altitudeAt = 0, fuelRateAt = 0;
 };
 
 void obd_start();  // runs the BLE/ELM327 client on its own task (core 0)

diff --git a/src/webpage.cpp b/src/webpage.cpp
@@ -44,7 +44,7 @@ void check(String &o, const char *id, const char *label, bool on) {
 }
 
 // In the order of the pages in ui.cpp.
-const char *const PAGE_NAMES[GAUGE_PAGES] = {"Boost", "Coolant", "Oil temperature", "Intake air", "Battery", "Speed", "Tachometer", "Fuel", "Clinometer", "Altitude"};
+const char *const PAGE_NAMES[GAUGE_PAGES] = {"Boost", "Coolant", "Oil temperature", "Intake air", "Battery", "Speed", "Tachometer", "Fuel", "Clinometer", "Altitude", "Fuel economy"};
 
 String render(const Settings &s, const char *note) {
   String o;
@@ -140,7 +140,7 @@ String render(const Settings &s, const char *note) {
       default: o += "<span class=none>none</span>";
     }
     o += "<td>";
-    if (i != 9) {   // altitude has no warning to switch off
+    if (i < 9) {   // altitude and fuel economy have no warning to switch off
       o += "<input type=checkbox name=al";
       o += String(i);
       o += s.alertMask & (1u << i) ? " checked>" : ">";

diff --git a/src/settings.h b/src/settings.h
@@ -9,7 +9,7 @@
 // Reads happen on the UI task, writes on the web server's task, so the web
 // side stages a whole struct and the UI task swaps it in at a safe point
 // (settings_apply) rather than editing fields underneath a running frame.
-constexpr int GAUGE_PAGES = 10;            // keep in step with the page list in ui.cpp and webpage.cpp
+constexpr int GAUGE_PAGES = 11;            // keep in step with the page list in ui.cpp and webpage.cpp
 constexpr int MAX_GAUGES = 16;             // room in the saved order, so adding a gauge doesn't change the layout
 
 struct Settings {

diff --git a/src/webconfig.cpp b/src/webconfig.cpp
@@ -65,7 +65,7 @@ void handleSave() {
   s.warnHidden = server.hasArg("warnhidden");
   s.stayOnWarning = server.hasArg("stay");
   s.lightTheme = server.hasArg("light");
-  s.alertMask = 1u << 9;   // altitude has no warning and no checkbox; its bit stays set
+  s.alertMask = 3u << 9;   // altitude and fuel economy have no warning and no checkbox; their bits stay set
   for (int i = 0; i < GAUGE_PAGES; i++) {
     char name[8];
     snprintf(name, sizeof name, "al%d", i);

diff --git a/README.md b/README.md
@@ -35,6 +35,7 @@ it does is also a touch gesture.
 | Oil temperature (°F) | PID 0x5C, which this car reports |
 | Intake air (°F) | PID 0x0F |
 | Altitude (ft) | PID 0x33 barometric pressure, turned into height with the standard atmosphere. Carries a peak needle. The car updates its barometer slowly, so weather shifts it a few hundred feet |
+| Fuel economy (mpg) | Speed divided by fuel use: PID 0x5E fuel rate, or PID 0x10 air flow turned into fuel if the car has no 5E. Eased over a second or two; blank when stopped. Not every car reports either, and this one is untested |
 | Speed (mph) | PID 0x0D, converted from km/h; carries a peak needle |
 | Tachometer (rpm) | PID 0x0C; carries a peak needle |
 | Fuel (%) | PID 0x2F tank level, smoothed; warns below a set level. Not every car reports it, and this one is untested |
